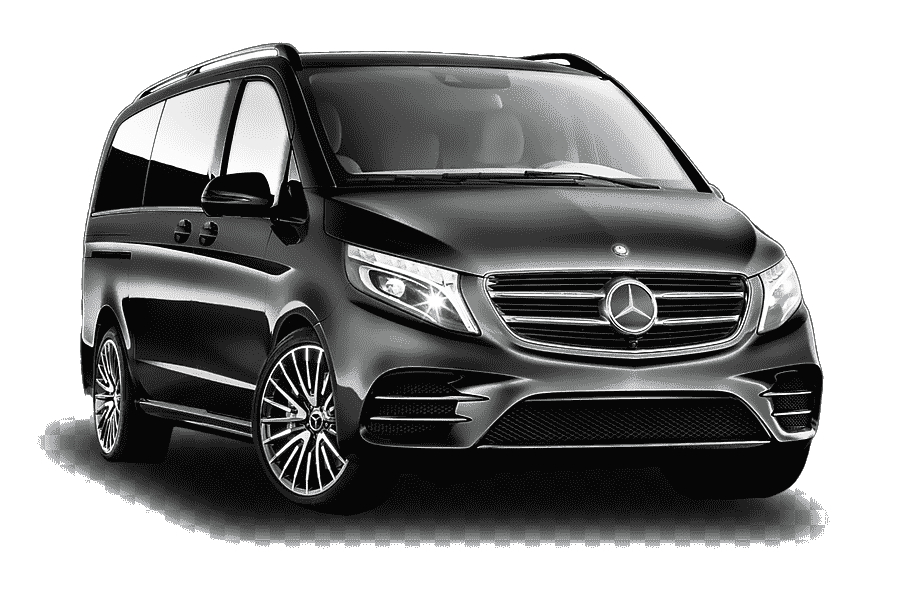
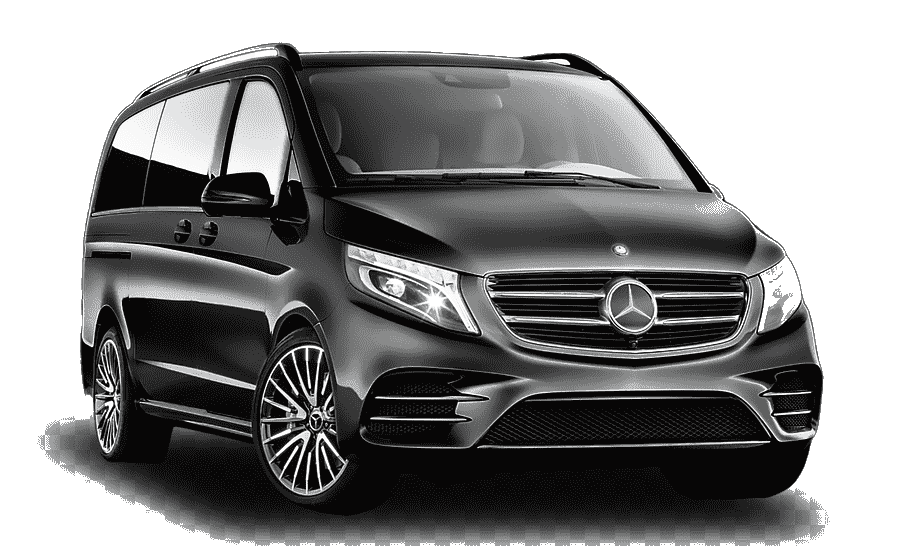
fix(van): supprime le shadow blanc en bas — rognage précis + fond transparent propre

diff --git a/noir-argente.html b/noir-argente.html
@@ -153,8 +153,8 @@
     .hero-van {
       width: 100%; max-width: 700px; height: auto; display: block;
       filter: drop-shadow(0 24px 60px rgba(0,0,0,0.9));
-      -webkit-mask-image: radial-gradient(ellipse 82% 88% at 54% 50%, black 40%, transparent 82%);
-      mask-image: radial-gradient(ellipse 82% 88% at 54% 50%, black 40%, transparent 82%);
+      -webkit-mask-image: radial-gradient(ellipse 88% 92% at 54% 48%, black 55%, transparent 88%);
+      mask-image: radial-gradient(ellipse 88% 92% at 54% 48%, black 55%, transparent 88%);
     }
     @keyframes fadeUp { from { opacity:0; transform:translateY(20px); } to { opacity:1; transform:translateY(0); } }
     @keyframes fadeIn { from { opacity:0; } to { opacity:1; } }
@@ -203,8 +203,8 @@
     .fleet-img {
       display: block; width: 100%; height: 520px; object-fit: contain; object-position: center;
       filter: drop-shadow(0 30px 80px rgba(0,0,0,0.9));
-      -webkit-mask-image: radial-gradient(ellipse 78% 76% at 50% 44%, black 40%, transparent 78%);
-      mask-image: radial-gradient(ellipse 78% 76% at 50% 44%, black 40%, transparent 78%);
+      -webkit-mask-image: radial-gradient(ellipse 88% 92% at 50% 48%, black 55%, transparent 88%);
+      mask-image: radial-gradient(ellipse 88% 92% at 50% 48%, black 55%, transparent 88%);
     }
     .fleet-specs { display: grid; grid-template-columns: repeat(6, 1fr); gap: 1px; background: var(--bd); border-top: 1px solid var(--bd); }
     .fleet-spec { background: var(--bg2); padding: 22px 18px; text-align: center; }
